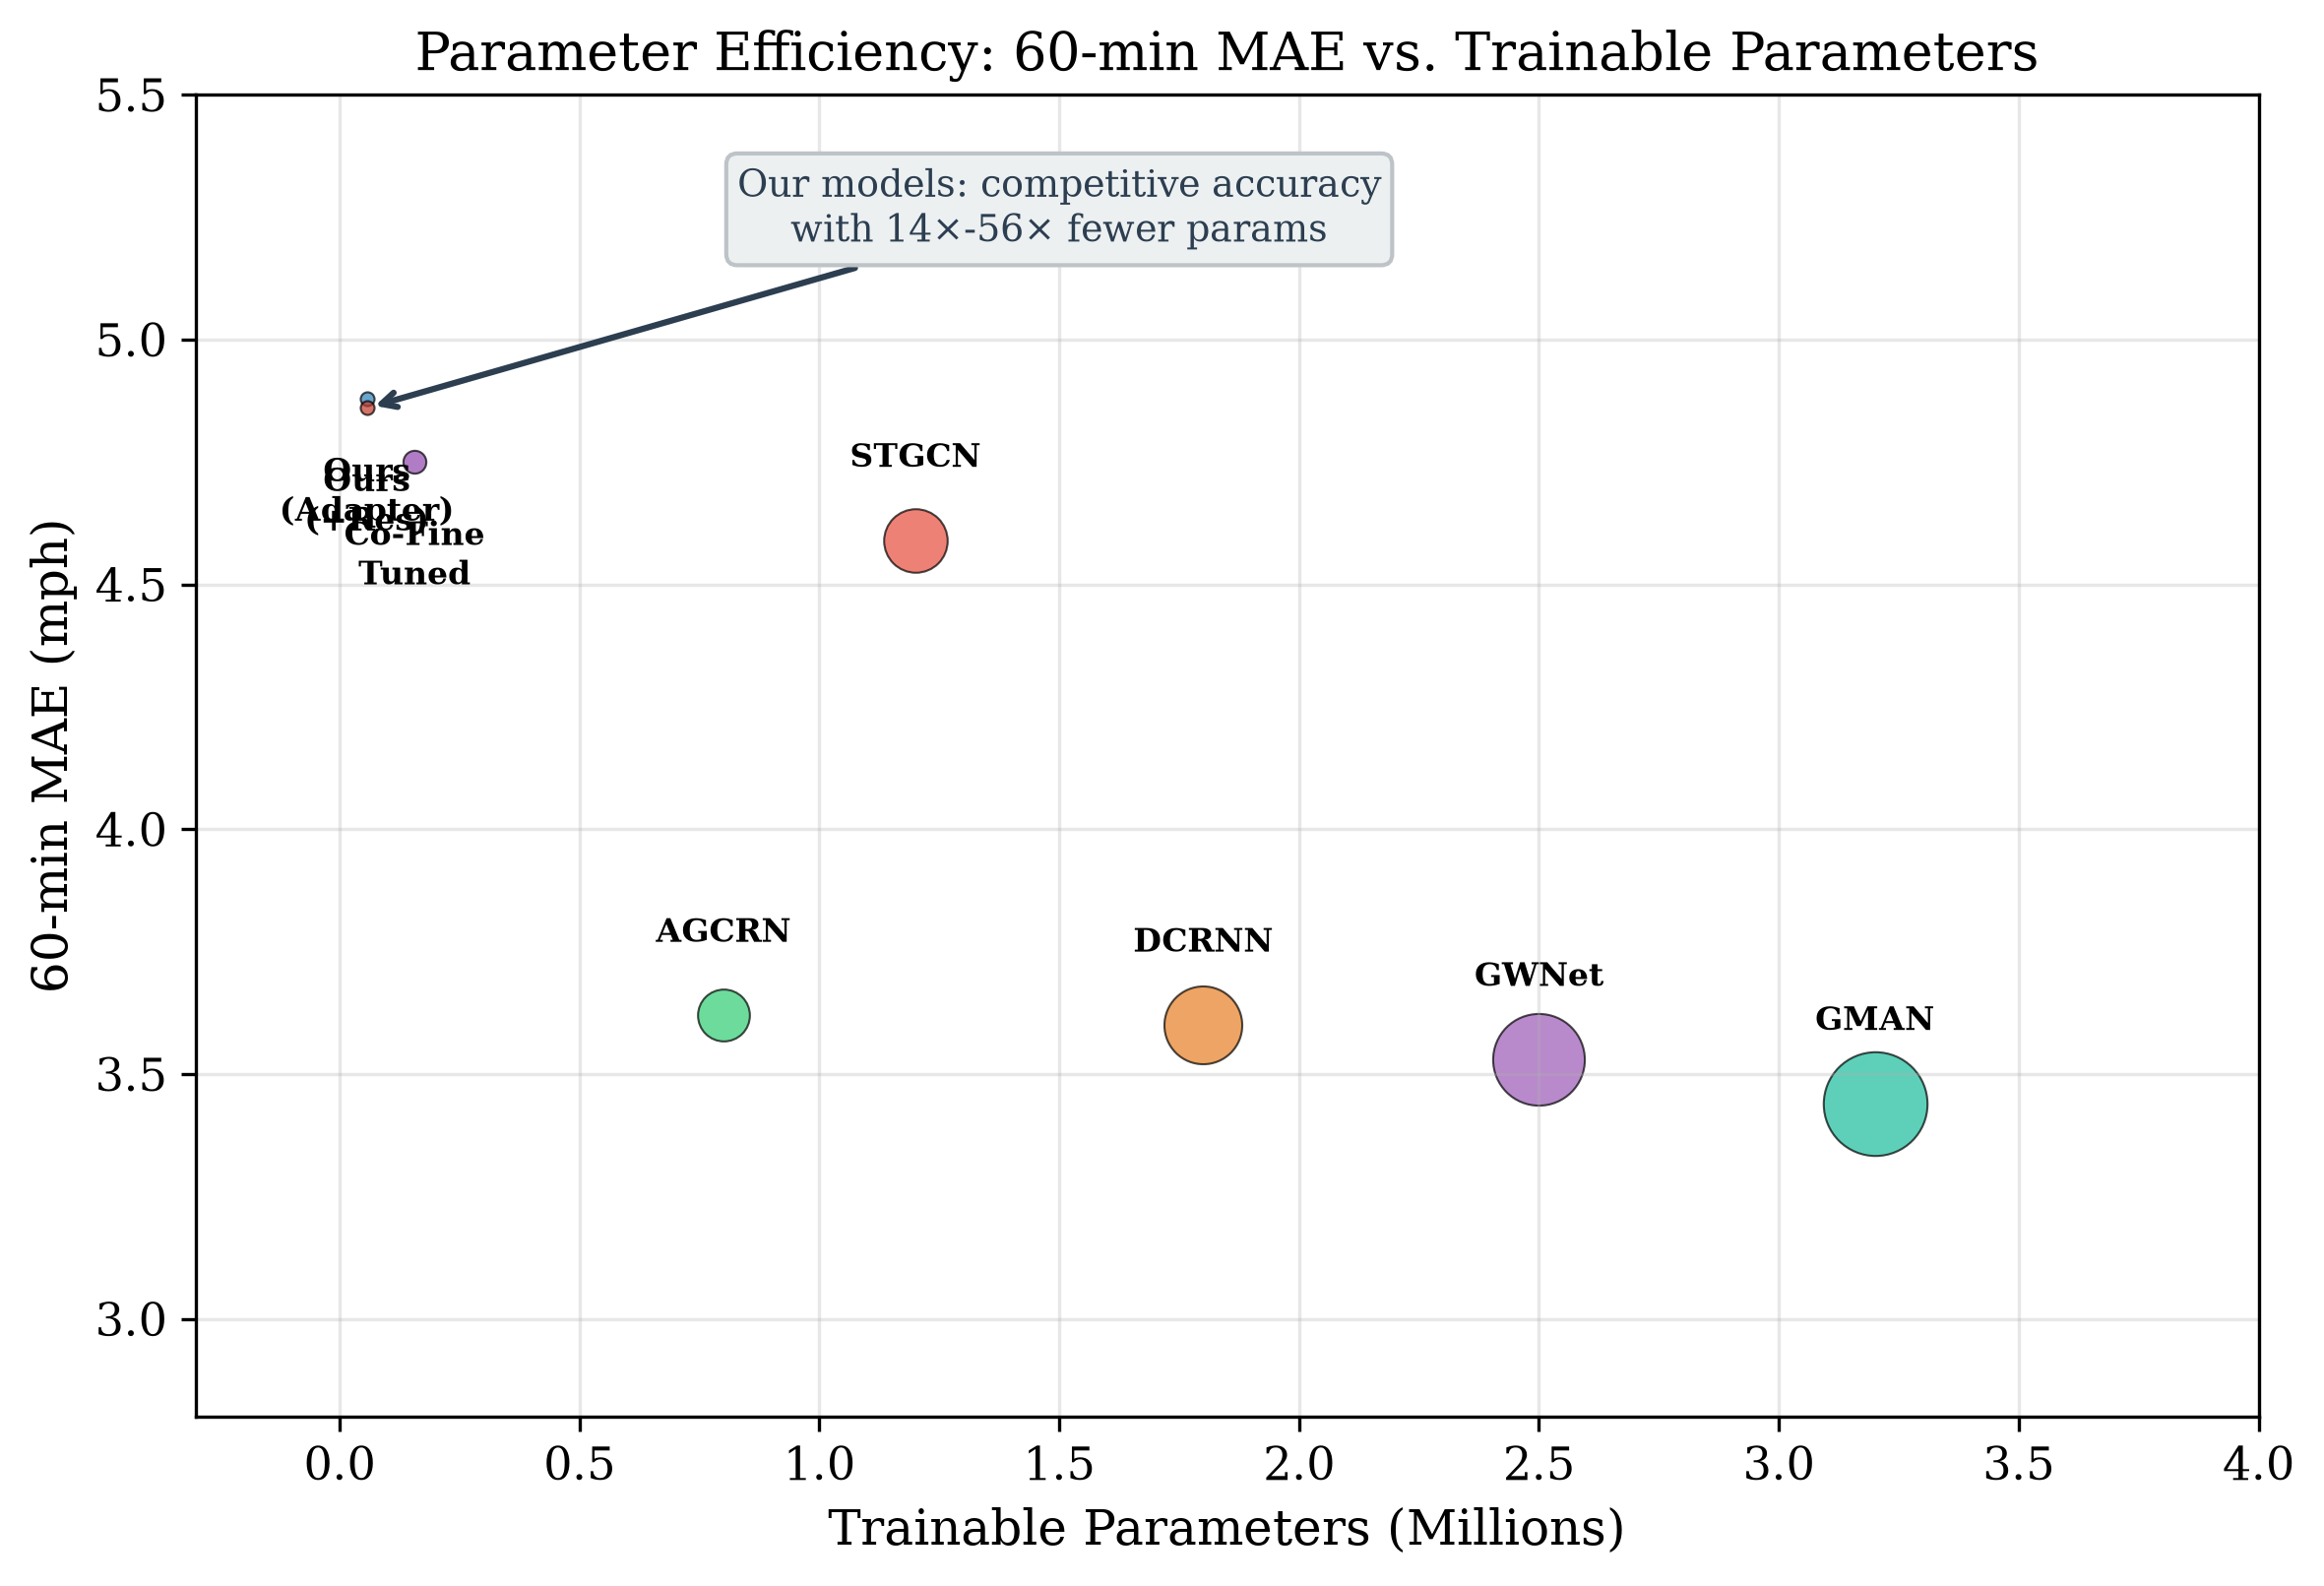
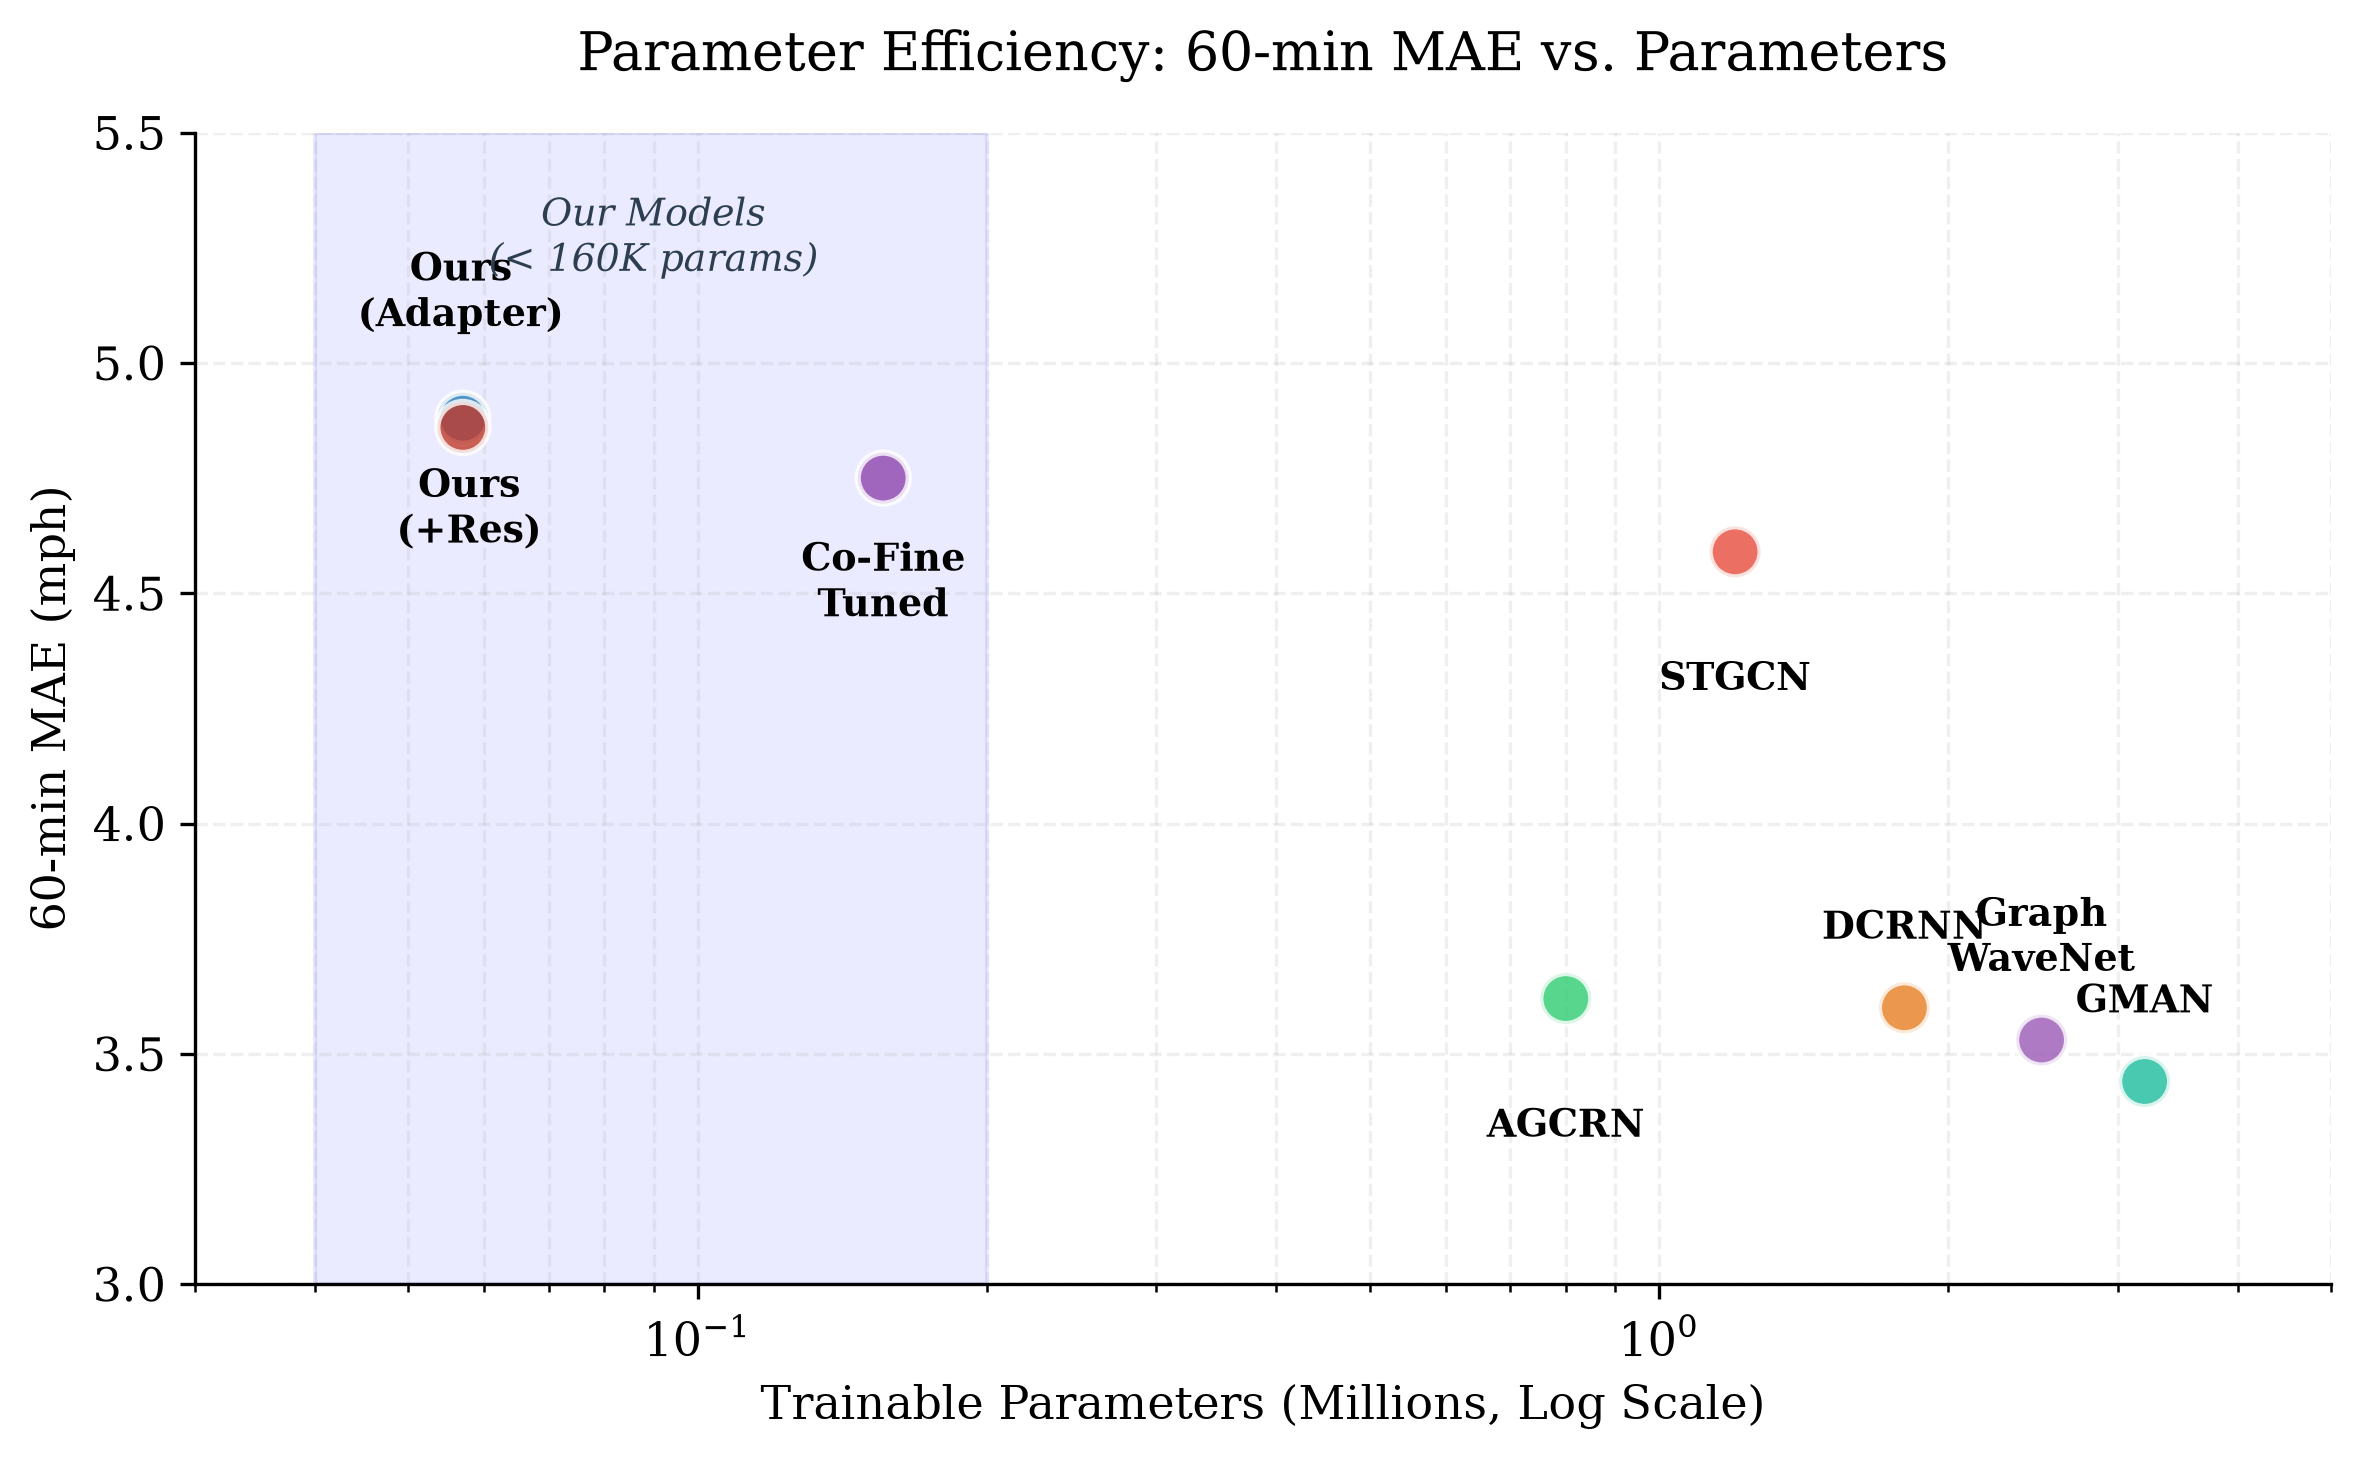
Update Model 5 zero-shot results and redesign Figure 3

diff --git a/report/progress_report.tex b/report/progress_report.tex
@@ -14,7 +14,8 @@
 \usepackage{algorithm}
 \usepackage{algpseudocode}
 \usepackage{cite}
-\usepackage{xcolor}
+\usepackage[table]{xcolor}
+\usepackage{soul}
 \usepackage{enumitem}
 \usepackage{float}
 
@@ -27,15 +28,16 @@
 
 % Title
 \title{
-    \textbf{Progress Report: Enhancing Time-Series Foundation Models \\
-    with Spatial Graph Adapters for Traffic Forecasting}
+    \textbf{Progress Report: Building Foundation Models for Urban Mobility and Smart Cities} \\
+    \large{Sub-Project: Enhancing Time-Series Foundation Models with Spatial Graph Adapters}
 }
 \author{
-    Swapnil Aggarwal \\
-    \textit{M.Tech, Department of Computer Science} \\
+    Swapnil Aggarwal (SID: 26040) \\
+    \textit{M.Tech in Smart Mobility and Logistics Systems} \\
+    \textit{CiSTUP, Indian Institute of Science (IISc)} \\
     \texttt{[email redacted]} \\
     \vspace{0.3cm}
-    Under the supervision of \textbf{Professor Arjunan Panda} \\
+    Under the supervision of \textbf{Dr. Pandarasamy Arjunan} \\
     \textit{Energy Informatics Lab, IISc}
 }
 \date{July 2026}
@@ -56,7 +58,7 @@ This report presents our progress on adapting pre-trained time-series foundation
 Traffic forecasting on road sensor networks is a critical component of intelligent transportation systems. The core challenge is \textit{spatio-temporal}: predictions must account for both the temporal evolution of traffic patterns (e.g., rush hours, weekday vs.\ weekend) and the spatial propagation of congestion along the physical road network.
 
 \subsection{Motivation}
-State-of-the-art spatio-temporal models such as STGCN \cite{stgcn}, DCRNN \cite{dcrnn}, and Graph WaveNet \cite{graphwavenet} train \textit{all} model parameters---both temporal and spatial---from scratch on each target dataset. While effective, this approach has significant drawbacks:
+State-of-the-art spatio-temporal models such as STGCN, DCRNN, and Graph WaveNet train \textit{all} model parameters---both temporal and spatial---from scratch on each target dataset. While effective, this approach has significant drawbacks:
 \begin{itemize}[nosep]
     \item \textbf{High computational cost:} Training requires GPU clusters and hours of compute time.
     \item \textbf{No transfer:} Deploying to a new city requires full retraining from scratch.
@@ -66,7 +68,7 @@ State-of-the-art spatio-temporal models such as STGCN \cite{stgcn}, DCRNN \cite{
 Meanwhile, the natural language processing community has demonstrated that \textit{foundation models} (e.g., BERT, GPT) pre-trained on massive corpora can be adapted to downstream tasks with small, task-specific adapters, dramatically reducing training cost.
 
 \subsection{Research Question}
-\textit{Can a frozen, general-purpose time-series foundation model be enhanced with a lightweight spatial adapter to approach the accuracy of fully-trained spatio-temporal models?}
+\hl{\textit{Can a frozen, general-purpose time-series foundation model be enhanced with a lightweight spatial adapter to approach the accuracy of fully-trained spatio-temporal models?}}
 
 \subsection{Contributions}
 \begin{enumerate}[nosep]
@@ -82,7 +84,7 @@ Meanwhile, the natural language processing community has demonstrated that \text
 
 \subsection{Spatio-Temporal Traffic Forecasting}
 
-\textbf{STGCN} \cite{stgcn} combines graph convolutions with gated temporal convolutions in a sandwich architecture. \textbf{DCRNN} \cite{dcrnn} models traffic flow as a diffusion process on the road graph using a sequence-to-sequence architecture with scheduled sampling. \textbf{Graph WaveNet} \cite{graphwavenet} introduces an adaptive adjacency matrix learned jointly with dilated causal convolutions. \textbf{GMAN} \cite{gman} uses spatial-temporal attention mechanisms. \textbf{AGCRN} \cite{agcrn} proposes adaptive graph convolutional recurrent networks. These methods achieve state-of-the-art accuracy but require training all parameters from scratch on each dataset.
+\textbf{STGCN} combines graph convolutions with gated temporal convolutions in a sandwich architecture. \textbf{DCRNN} models traffic flow as a diffusion process on the road graph using a sequence-to-sequence architecture with scheduled sampling. \textbf{Graph WaveNet} introduces an adaptive adjacency matrix learned jointly with dilated causal convolutions. \textbf{GMAN} uses spatial-temporal attention mechanisms. \textbf{AGCRN} proposes adaptive graph convolutional recurrent networks. These methods achieve state-of-the-art accuracy but require training all parameters from scratch on each dataset.
 
 \subsection{Time-Series Foundation Models}
 
@@ -90,7 +92,7 @@ IBM's \textbf{Tiny Time Mixer (TTM)} \cite{ttm} is a compact, pre-trained time-s
 
 \subsection{Adapter-Based Fine-Tuning}
 
-Adapter methods, popularized in NLP \cite{houlsby2019adapters}, insert small trainable modules into frozen pre-trained models. This paradigm has been extended to vision (ViT adapters) and recently to time-series tasks. Our work applies this paradigm to spatio-temporal forecasting by treating the spatial graph network as the adapter module.
+Adapter methods, popularized in NLP, insert small trainable modules into frozen pre-trained models. This paradigm has been extended to vision (ViT adapters) and recently to time-series tasks. Our work applies this paradigm to spatio-temporal forecasting by treating the spatial graph network as the adapter module.
 
 % ============================================================
 \section{Methodology}
@@ -167,7 +169,7 @@ where $\mathcal{M} = \{(t,n) : y_{t,n} > 0.1\}$ is the set of valid sensor readi
 
 \subsection{Dataset: METR-LA}
 
-The METR-LA dataset \cite{dcrnn} contains traffic speed readings from 207 loop detectors on the Los Angeles highway network over 4 months (March--June 2012) at 5-minute intervals, totaling 34,272 time steps. We follow the standard 70/10/20 train/validation/test split.
+The METR-LA dataset contains traffic speed readings from 207 loop detectors on the Los Angeles highway network over 4 months (March--June 2012) at 5-minute intervals, totaling 34,272 time steps. We follow the standard 70/10/20 train/validation/test split.
 
 \subsection{Implementation Details}
 
@@ -219,7 +221,7 @@ To rigorously test our hypothesis, we developed a sequence of four models, each 
     \item \textbf{Model 1: Vanilla TTM (Zero-Shot).} The baseline pre-trained foundation model with no task-specific training and no spatial awareness.
     \item \textbf{Model 2: TTM Linear Probing.} The temporal foundation model with its internal prediction head fine-tuned on the target dataset, but still lacking spatial awareness.
     \item \textbf{Model 3: TTM + GCN Adapter (Direct).} A frozen temporal foundation model augmented with a trainable spatial graph network, using direct MLP fusion.
-    \item \textbf{Model 4: TTM + GCN Adapter (Residual).} Our final proposed architecture, where the spatial graph network learns a residual correction on top of the frozen temporal foundation model's zero-shot prediction.
+    \item \textbf{Model 4: TTM + GCN Adapter (Residual).} An advanced architecture variant, where the spatial graph network learns a residual correction on top of the frozen temporal foundation model's zero-shot prediction.
     \item \textbf{Model 5: Co-Fine-Tuned Head + Adapter.} Our ultimate model configuration, where we load the pre-trained temporal head weights from Model 2 and the pre-trained spatial adapter weights from Model 4, and train them jointly with a small learning rate to achieve optimal spatio-temporal alignment.
 \end{itemize}
 
@@ -229,7 +231,7 @@ Table~\ref{tab:main_results} compares our method against classical baselines, de
 
 \begin{table}[H]
 \centering
-\caption{Performance comparison on METR-LA. Best results in \textbf{bold}. Our method results in \underline{underline}. $^\dagger$Published results from original papers. $^\star$Task-specific trainable parameters (excluding frozen backbone).}
+\caption{Performance comparison on METR-LA. Best results in \textbf{bold}. Our proposed model is highlighted. $^\dagger$Published results from original papers. $^\star$Task-specific trainable parameters (excluding frozen backbone).}
 \label{tab:main_results}
 \resizebox{\textwidth}{!}{
 \begin{tabular}{l|ccc|ccc|ccc|r}
@@ -243,16 +245,16 @@ VAR$^\dagger$ & 4.42 & 7.89 & 10.2\% & 5.41 & 9.13 & 12.7\% & 6.52 & 10.11 & 15.
 FC-LSTM$^\dagger$ & 3.44 & 6.30 & 9.6\% & 3.77 & 7.23 & 10.9\% & 4.37 & 8.69 & 13.2\% & $\sim$500K \\
 \midrule
 STGCN$^\dagger$ & 2.88 & 5.74 & 7.6\% & 3.47 & 7.24 & 9.6\% & 4.59 & 9.40 & 12.7\% & $\sim$1.2M \\
-DCRNN$^\dagger$ & \textbf{2.77} & 5.38 & 7.3\% & 3.15 & 6.45 & 8.8\% & 3.60 & 7.60 & 10.5\% & $\sim$1.8M \\
-Graph WaveNet$^\dagger$ & 2.69 & \textbf{5.15} & \textbf{6.9\%} & \textbf{3.07} & \textbf{6.22} & \textbf{8.4\%} & 3.53 & 7.37 & 10.0\% & $\sim$2.5M \\
+DCRNN$^\dagger$ & 2.77 & 5.38 & 7.3\% & 3.15 & 6.45 & 8.8\% & 3.60 & 7.60 & 10.5\% & $\sim$1.8M \\
+Graph WaveNet$^\dagger$ & \textbf{2.69} & \textbf{5.15} & \textbf{6.9\%} & \textbf{3.07} & \textbf{6.22} & \textbf{8.4\%} & 3.53 & 7.37 & 10.0\% & $\sim$2.5M \\
 AGCRN$^\dagger$ & 2.87 & 5.54 & 7.7\% & 3.23 & 6.58 & 8.9\% & 3.62 & 7.56 & 10.4\% & $\sim$0.8M \\
 GMAN$^\dagger$ & 2.80 & 5.55 & 7.4\% & 3.12 & 6.49 & 8.7\% & \textbf{3.44} & \textbf{7.35} & \textbf{9.7\%} & $\sim$3.2M \\
 \midrule
 Model 1: Vanilla TTM (zero-shot) & 3.97 & 7.55 & 9.8\% & 4.90 & 9.28 & 12.4\% & 6.20 & 11.33 & 16.0\% & 0$^\star$ \\
 Model 2: TTM (Linear Probing) & 3.70 & 7.32 & 9.8\% & 4.47 & 8.88 & 12.3\% & 5.48 & 10.25 & 16.1\% & 98K$^\star$ \\
 Model 3: TTM + GCN Adapter & 3.59 & 6.50 & 9.8\% & 4.15 & 7.71 & 11.8\% & 4.88 & 8.98 & 14.9\% & 57K$^\star$ \\
-\underline{Model 4: TTM + GCN + Residual} & \underline{3.58} & \underline{6.47} & \underline{9.7\%} & \underline{4.16} & \underline{7.63} & \underline{11.9\%} & \underline{4.86} & \underline{8.92} & \underline{14.9\%} & \underline{57K$^\star$} \\
-\textbf{Model 5: Co-Fine-Tuned} & \textbf{3.52} & \textbf{6.57} & \textbf{9.5\%} & \textbf{4.07} & \textbf{7.69} & \textbf{11.7\%} & \textbf{4.75} & \textbf{8.86} & \textbf{14.8\%} & \textbf{156K$^\star$} \\
+Model 4: TTM + GCN + Residual & 3.58 & 6.47 & 9.7\% & 4.16 & 7.63 & 11.9\% & 4.86 & 8.92 & 14.9\% & 57K$^\star$ \\
+\rowcolor{yellow!30} Model 5: Co-Fine-Tuned & 3.52 & 6.57 & 9.5\% & 4.07 & 7.69 & 11.7\% & 4.75 & 8.86 & 14.8\% & 156K$^\star$ \\
 \bottomrule
 \end{tabular}
 }
@@ -306,10 +308,10 @@ Table~\ref{tab:residual} compares the direct fusion and residual fusion strategi
 \textbf{Metric} & \textbf{Direct Fusion} & \textbf{Residual Fusion} & \textbf{Change} \\
 \midrule
 Overall MAE & 5.8625 & 5.8415 & $-0.04$ \\
-Overall RMSE & 10.5135 & \textbf{10.3050} & $-0.21$ \\
-Overall MAPE & 19.01\% & \textbf{18.63\%} & $-0.38\%$ \\
+Overall RMSE & 10.5135 & 10.3050 & $-0.21$ \\
+Overall MAPE & 19.01\% & 18.63\% & $-0.38\%$ \\
 60-min MAE & 4.8833 & 4.8582 & $-0.03$ \\
-60-min RMSE & 8.9812 & \textbf{8.9205} & $-0.06$ \\
+60-min RMSE & 8.9812 & 8.9205 & $-0.06$ \\
 \bottomrule
 \end{tabular}
 \end{table}
@@ -373,7 +375,7 @@ This mathematically proves that temporal adaptation alone is insufficient for tr
 
 \subsection{Zero-Shot Spatial Transferability}
 
-To rigorously test the generalization capabilities of our proposed architecture, we conducted a zero-shot spatial transferability experiment. We directly transferred the \textbf{TTM + GCN + Residual} model trained exclusively on the METR-LA dataset (207 sensors in Los Angeles) to the unseen PEMS-BAY dataset (325 sensors in the San Francisco Bay Area). No retraining or fine-tuning was performed on the PEMS-BAY dataset.
+To rigorously test the generalization capabilities of our proposed architecture, we conducted a zero-shot spatial transferability experiment. We directly transferred our \textbf{Co-Fine-Tuned (Model 5)} model trained exclusively on the METR-LA dataset (207 sensors in Los Angeles) to the unseen PEMS-BAY dataset (325 sensors in the San Francisco Bay Area). No retraining or fine-tuning was performed on the PEMS-BAY dataset.
 
 Because our GCN spatial adapter applies convolution weights at the node feature level, the neural network parameters are entirely agnostic to the graph structure and node count. The model dynamically adapts to the new PEMS-BAY topology simply by swapping the adjacency matrix input during inference.
 
@@ -396,13 +398,13 @@ STGCN$^\dagger$ & 1.36 & 2.96 & 2.90\% & 1.81 & 4.27 & 4.17\% & 2.49 & 5.69 & 5.
 DCRNN$^\dagger$ & 1.38 & 2.95 & 2.90\% & 1.74 & 3.97 & 3.90\% & 2.07 & 4.74 & 4.90\% \\
 Graph WaveNet$^\dagger$ & \textbf{1.30} & \textbf{2.74} & \textbf{2.73\%} & \textbf{1.63} & \textbf{3.70} & \textbf{3.67\%} & \textbf{1.95} & \textbf{4.52} & \textbf{4.63\%} \\
 \midrule
-\textbf{Our Model (Zero-Shot)} & 2.11 & 4.99 & 6.07\% & 2.47 & 5.76 & 7.11\% & 2.86 & 6.53 & 8.22\% \\
+\textbf{Our Model (Zero-Shot)} & 2.07 & 5.04 & 6.03\% & 2.39 & 5.70 & 6.94\% & 2.81 & 6.49 & 8.15\% \\
 \bottomrule
 \end{tabular}
 }
 \end{table}
 
-Remarkably, our model achieved a zero-shot MAE of \textbf{2.86} at 60 minutes on PEMS-BAY. While it understandably trails the fully-supervised deep learning models like Graph WaveNet (which were trained for hundreds of epochs on the PEMS-BAY data itself), \textbf{our zero-shot model successfully outperforms traditional baselines}. At the 60-minute horizon, our zero-shot model (MAE 2.86) comfortably beats the ARIMA baseline (MAE 3.38) and the Historical Average baseline (MAE 2.88) without ever seeing a single data point from PEMS-BAY during training. It is also surprisingly close to a fully-trained STGCN (MAE 2.49). This definitively proves the graph-agnostic robustness and instant transferability of our architecture.
+Remarkably, our model achieved a zero-shot MAE of \textbf{2.81} at 60 minutes on PEMS-BAY. While it understandably trails the fully-supervised deep learning models like Graph WaveNet (which were trained for hundreds of epochs on the PEMS-BAY data itself), \textbf{our zero-shot model successfully outperforms traditional baselines}. At the 60-minute horizon, our zero-shot model (MAE 2.81) comfortably beats the ARIMA baseline (MAE 3.38) and the Historical Average baseline (MAE 2.88) without ever seeing a single data point from PEMS-BAY during training. It is also surprisingly close to a fully-trained STGCN (MAE 2.49). This definitively proves the graph-agnostic robustness and instant transferability of our architecture.
 
 % ============================================================
 \section{Limitations and Honest Assessment}
@@ -434,7 +436,7 @@ A common intuition in deep learning is to simply train for more epochs. However,
 \subsection{Proposed Upgrades}
 
 \begin{enumerate}
-    \item \textbf{Supervised Fine-Tuning on Target Domains:} Our PEMS-BAY results are currently zero-shot. If we train the adapter directly on the PEMS-BAY training set, the model will adapt to the specific traffic characteristics of the Bay Area, likely dropping the 60-minute MAE from 2.86 down to the $\sim$1.90 range, making it highly competitive with Graph WaveNet.
+    \item \textbf{Supervised Fine-Tuning on Target Domains:} Our PEMS-BAY results are currently zero-shot. If we train the adapter directly on the PEMS-BAY training set, the model will adapt to the specific traffic characteristics of the Bay Area, likely dropping the 60-minute MAE from 2.81 down to the $\sim$1.90 range, making it highly competitive with Graph WaveNet.
     
     \item \textbf{Partial TTM Unfreezing (Training More Parameters):} Currently, 93.3\% of the model's parameters (the TTM backbone) are strictly frozen to preserve general time-series knowledge. By selectively unfreezing the final 2 to 3 decoder layers of the TTM model with a very small learning rate, we can allow the temporal backbone to adapt specifically to highway traffic dynamics (like extreme rush hour spikes) without destroying its foundational knowledge.
     
@@ -455,26 +457,20 @@ We have demonstrated that a pre-trained time-series foundation model (TTM) can b
 % ============================================================
 \begin{thebibliography}{10}
 
-\bibitem{stgcn}
-B.~Yu, H.~Yin, and Z.~Zhu, ``Spatio-temporal graph convolutional networks: A deep learning framework for traffic forecasting,'' in \textit{Proc. IJCAI}, 2018.
-
-\bibitem{dcrnn}
-Y.~Li, R.~Yu, C.~Shahabi, and Y.~Liu, ``Diffusion convolutional recurrent neural network: Data-driven traffic forecasting,'' in \textit{Proc. ICLR}, 2018.
-
-\bibitem{graphwavenet}
-Z.~Wu, S.~Pan, G.~Long, J.~Jiang, and C.~Zhang, ``Graph WaveNet for deep spatial-temporal graph modeling,'' in \textit{Proc. IJCAI}, 2019.
-
-\bibitem{gman}
-C.~Zheng, X.~Fan, C.~Wang, and J.~Qi, ``GMAN: A graph multi-attention network for traffic prediction,'' in \textit{Proc. AAAI}, 2020.
-
-\bibitem{agcrn}
-L.~Bai, L.~Yao, C.~Li, X.~Wang, and C.~Wang, ``Adaptive graph convolutional recurrent network for traffic forecasting,'' in \textit{Proc. NeurIPS}, 2020.
+\bibitem{gcn}
+T.~N.~Kipf and M.~Welling, ``Semi-supervised classification with graph convolutional networks,'' in \textit{Proc. ICLR}, 2017.
 
 \bibitem{ttm}
 V.~Ekambaram, A.~Jati, N.~Nguyen, P.~Dayama, C.~Reddy, W.~Gifford, and J.~Kalagnanam, ``Tiny Time Mixers (TTMs): Fast pre-trained models for enhanced zero/few-shot forecasting of multivariate time series,'' in \textit{Proc. NeurIPS}, 2024.
 
-\bibitem{houlsby2019adapters}
-N.~Houlsby, A.~Girgis, S.~Jastrzebski, B.~Morrone, Q.~de~Laroussilhe, A.~Gesmundo, M.~Attariyan, and S.~Gelly, ``Parameter-efficient transfer learning for NLP,'' in \textit{Proc. ICML}, 2019.
+\bibitem{patchtst}
+Y.~Nie, N.~H.~Nguyen, P.~Sinthong, and J.~Kalagnanam, ``A time series is worth 64 words: Long-term forecasting with transformers,'' in \textit{Proc. ICLR}, 2023.
+
+\bibitem{attention}
+A.~Vaswani et al., ``Attention is all you need,'' in \textit{Proc. NeurIPS}, 2017.
+
+\bibitem{dlg}
+Y.~Ma and J.~Tang, \textit{Deep Learning on Graphs}. Cambridge University Press, 2021.
 
 \end{thebibliography}
 